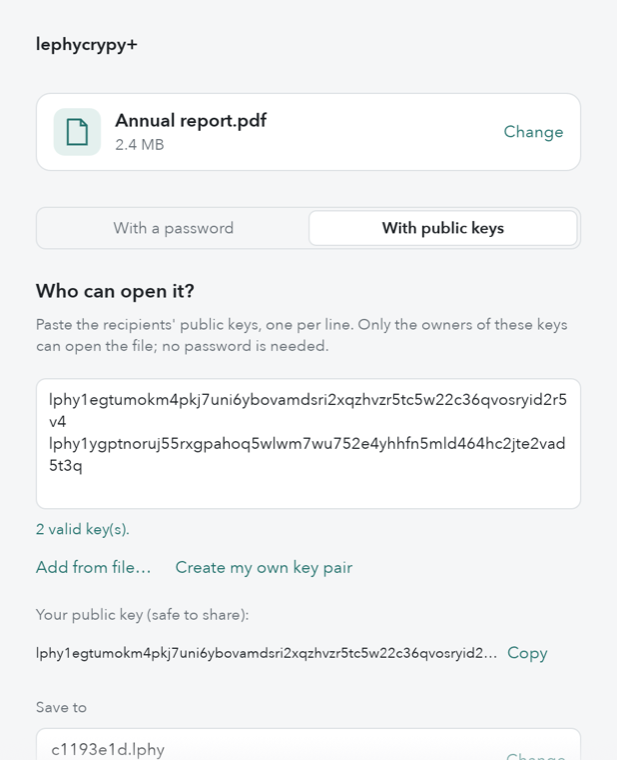
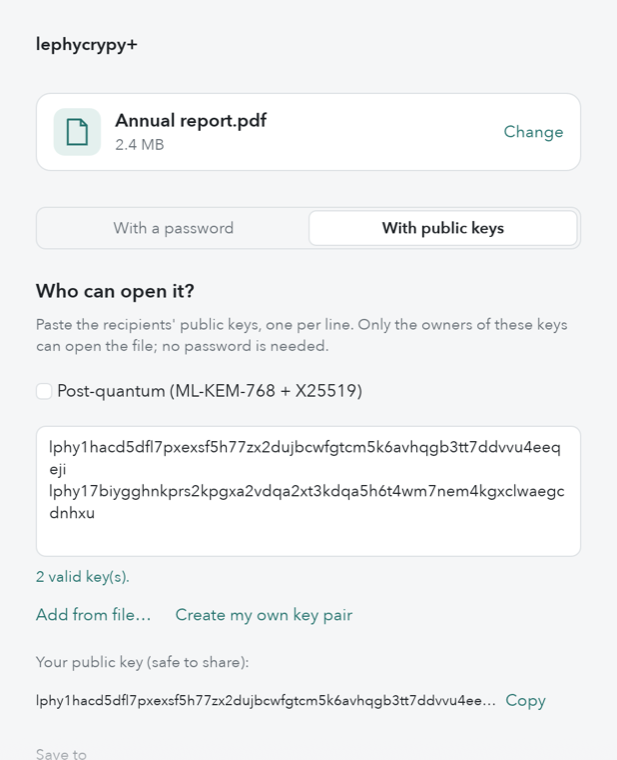
Document why biometric unlock is not added; refresh fuzz lock
- Touch ID: a biometry access control needs the Data Protection
  keychain, which refuses unsigned apps (-34018); the legacy keychain
  accepts it but does not enforce it (read back without a prompt).
  Windows Hello over DPAPI would not bind the data either. Recorded in
  the threat model, to revisit with signed releases
- fuzz/Cargo.lock gains the new dependencies (fuzz targets build)
- Public-key screenshots show the new post-quantum option

diff --git a/docs/THREAT-MODEL.md b/docs/THREAT-MODEL.md
@@ -199,6 +199,22 @@ The compressed size reveals information about the content, especially when an at
 part of the input (CRIME/BREACH style). PADMÉ reduces but does not remove this. Compression is
 off by default.
 
+## Not implemented: Touch ID / Windows Hello unlock
+
+Unlocking an identity with Touch ID or Windows Hello was evaluated (November 2026) and left out,
+because without a signed release it would only look secure:
+
+- macOS: a keychain item whose access control requires biometry needs the Data Protection
+  keychain, which refuses apps without a Developer ID team entitlement (`errSecMissingEntitlement`,
+  −34018). In the legacy file keychain the same access control is accepted but not enforced: the
+  item was read back without any Touch ID prompt.
+- Windows: DPAPI protects data for the user account, not for Windows Hello; a Hello consent dialog
+  in front of it would not stop another process of the same user from decrypting it. Binding to
+  Hello needs `KeyCredentialManager` (WinRT), which the project does not use.
+
+It can be revisited together with signed releases. Until then the identity file's password is the
+only protection, and the paper backup is the recovery path.
+
 ## Other
 Weak passwords; a key file is only an additional factor. Linux is best effort: it is not tested,
 and Linux-specific protections (MADV_DONTDUMP, PR_SET_DUMPABLE, renameat2) are considered

diff --git a/CHANGELOG.md b/CHANGELOG.md
@@ -59,6 +59,9 @@ Fixes from the November 2026 internal review (not an independent audit):
   whose time range is narrower; the time is simply not applied.
 
 ### Changed
+- Touch ID / Windows Hello unlock of identities was evaluated and not added: without a signed
+  release the biometric check is not enforced (macOS legacy keychain) or not bound to the data
+  (Windows DPAPI). See the threat model.
 - A folder that is encrypted now always comes back as a folder, even when it holds a single file
   (it used to be written out as that file). The archive's END entry records that the source was a
   folder (`END_FOLDER`, docs/FORMAT.md); files encrypted from a single file are unchanged.
